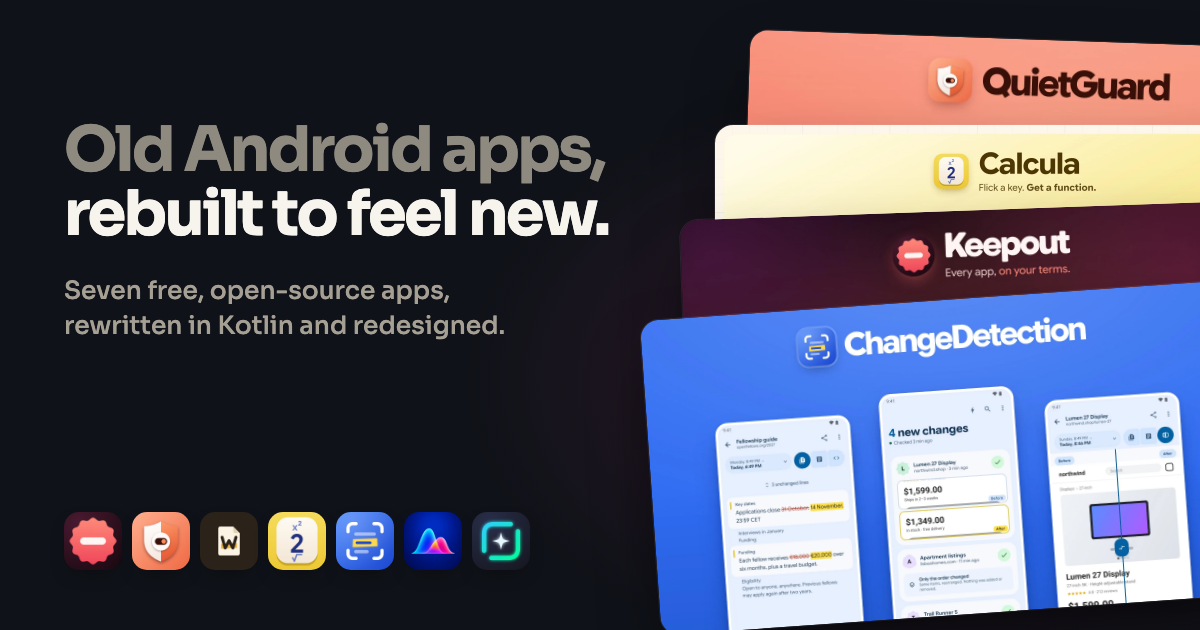
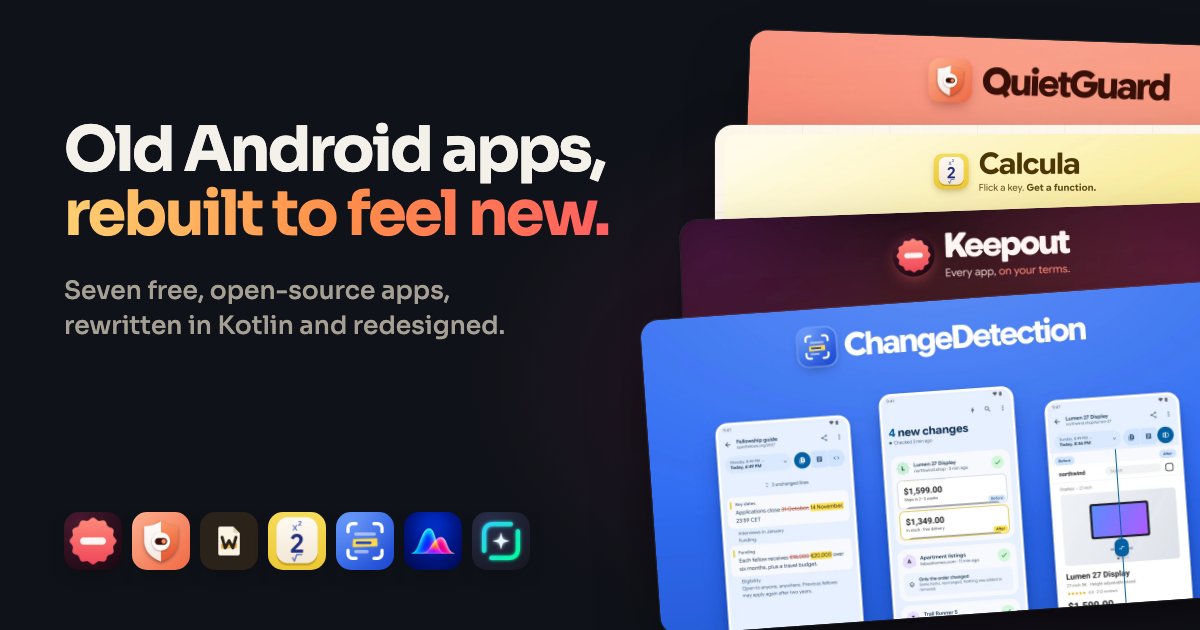
Ember gradient (gold, orange, red) on the headline, site and social image

Changed region(s): [[0.0308, 0.181, 0.5242, 0.3921]]

diff --git a/components/landing/hero.tsx b/components/landing/hero.tsx
@@ -50,8 +50,10 @@ export function Hero() {
         </div>
 
         <h1 className="forge-section-title mt-7 text-4xl font-semibold leading-[1.04] tracking-tight sm:text-6xl lg:text-7xl">
-          <span className="text-muted-foreground/70">Old Android apps,</span>
-          <span className="block pb-1 text-foreground">rebuilt to feel new.</span>
+          Old Android apps,
+          <span className="block bg-gradient-to-r from-[#ffcf70] via-[#ff8f4a] to-[#ff5f5f] bg-clip-text pb-1 text-transparent">
+            rebuilt to feel new.
+          </span>
         </h1>
 
         <p className="mx-auto mt-6 max-w-2xl text-base leading-relaxed text-muted-foreground sm:text-lg">
